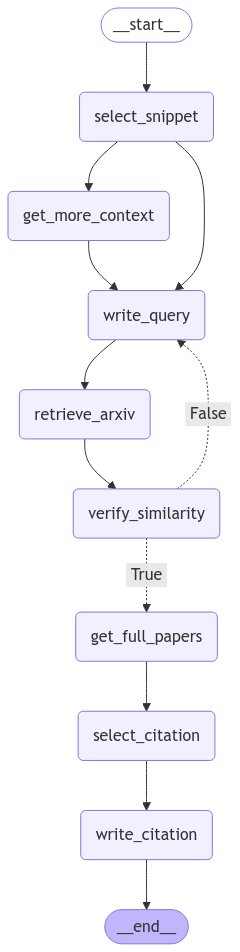
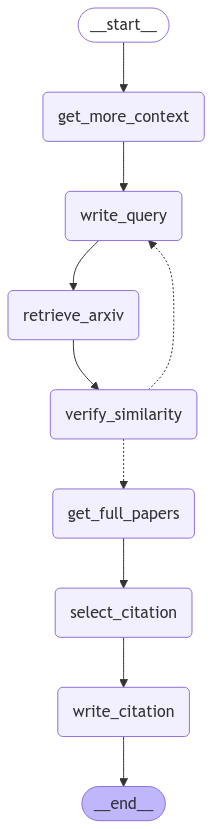
Fixed

diff --git a/graph.py b/graph.py
@@ -3,10 +3,11 @@ import os
 from dotenv import load_dotenv
 from langchain_core.output_parsers import StrOutputParser
 from langchain_core.prompts import ChatPromptTemplate
-from langchain_openai import ChatOpenAI
+from langchain_openai import ChatOpenAI, OpenAIEmbeddings
 from langgraph.graph import END, START, StateGraph
 from langgraph.types import interrupt
 from pydantic import BaseModel, Field
+from sklearn.metrics.pairwise import cosine_similarity
 
 load_dotenv()
 
@@ -15,7 +16,8 @@ llm = ChatOpenAI(model="gpt-4o-mini", temperature=0)
 
 class GraphState(BaseModel):
     sentence: str = Field(description="A sentence to be considered.")
-    # full_content: str = Field(description="The full content of the paper.")
+    full_content: str = Field(description="The full content of the paper.")
+    similarity: float = Field(0, description="Cosine similarity of embeddings.")
 
 
 def get_more_context(state: GraphState) -> GraphState:
@@ -30,8 +32,28 @@ def retrieve_arxiv(state: GraphState) -> GraphState:
     return state
 
 
+def calculate_similarity(text1: str, text2: str) -> float:
+    embeddings = OpenAIEmbeddings(model="text-embedding-3-large")
+    doc_embedding = embeddings.embed_query(text1)
+    query_embedding = embeddings.embed_query(text2)
+    similarity = cosine_similarity([doc_embedding], [query_embedding]).item()
+    return similarity
+
+
 def verify_similarity(state: GraphState) -> GraphState:
+    similarity = calculate_similarity(state.sentence, state.full_content)
+    state.similarity = similarity
     return state
+
+
+def decide_similarity(state: GraphState) -> str:
+    """
+    Decide branch based on the similarity.
+
+    Returns:
+        str: "yes" if similarity > 0.5, otherwise "no"
+    """
+    return "get_full_papers" if state.similarity > 0.01 else "write_query"
 
 
 def get_full_papers(state: GraphState) -> GraphState:
@@ -47,37 +69,43 @@ def write_citation(state: GraphState) -> GraphState:
 
 
 builder = StateGraph(GraphState)
-builder.add_node(select_snippet)
-builder.add_node(get_more_context)
-builder.add_node(write_query)
-builder.add_node(retrieve_arxiv)
-builder.add_node(verify_similarity)
-builder.add_node(get_full_papers)
-builder.add_node(select_citation)
-builder.add_node(write_citation)
+builder.add_node("get_more_context", get_more_context)
+builder.add_node("write_query", write_query)
+builder.add_node("retrieve_arxiv", retrieve_arxiv)
+builder.add_node("verify_similarity", verify_similarity)
+builder.add_node("get_full_papers", get_full_papers)
+builder.add_node("select_citation", select_citation)
+builder.add_node("write_citation", write_citation)
 
-builder.set_entry_point("select_snippet")
-builder.add_edge("select_snippet", "write_query")
-builder.add_edge("select_snippet", "get_more_context")
+builder.add_edge(START, "get_more_context")
 builder.add_edge("get_more_context", "write_query")
 builder.add_edge("write_query", "retrieve_arxiv")
 builder.add_edge("retrieve_arxiv", "verify_similarity")
 builder.add_conditional_edges(
     "verify_similarity",
-    verify_similarity,
+    decide_similarity,
     {
-        True: "get_full_papers",
-        False: "write_query",
+        "get_full_papers": "get_full_papers",
+        "write_query": "write_query",
     },
 )
 builder.add_edge("get_full_papers", "select_citation")
 builder.add_edge("select_citation", "write_citation")
 builder.set_finish_point("write_citation")
-
 graph = builder.compile()
-
 
 # Save the graph visualization
 graph_image = graph.get_graph().draw_mermaid_png()
 with open("graph.png", "wb") as f:
     f.write(graph_image)
+
+if __name__ == "__main__":
+    full_content = open("2305.05665v2.txt").read()
+
+    result = graph.invoke(
+        {
+            "sentence": "In multilingual neural machine translation, a similar phenomenon to the emergence behavior of IMAGEBIND is commonly observed and utilized: if languages are trained in the same latent space through learned implicit bridging, translation can be done between language pairs on which no paired data is provided",
+            "full_content": full_content,
+        }
+    )
+    print(result)
